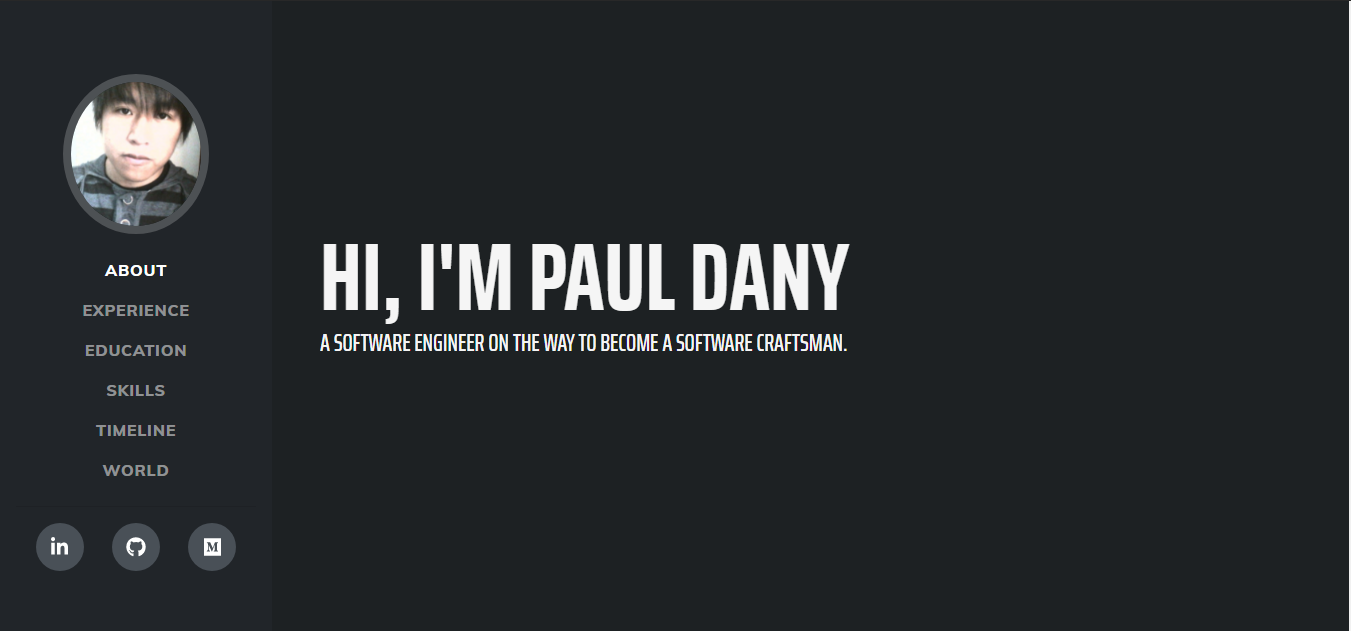
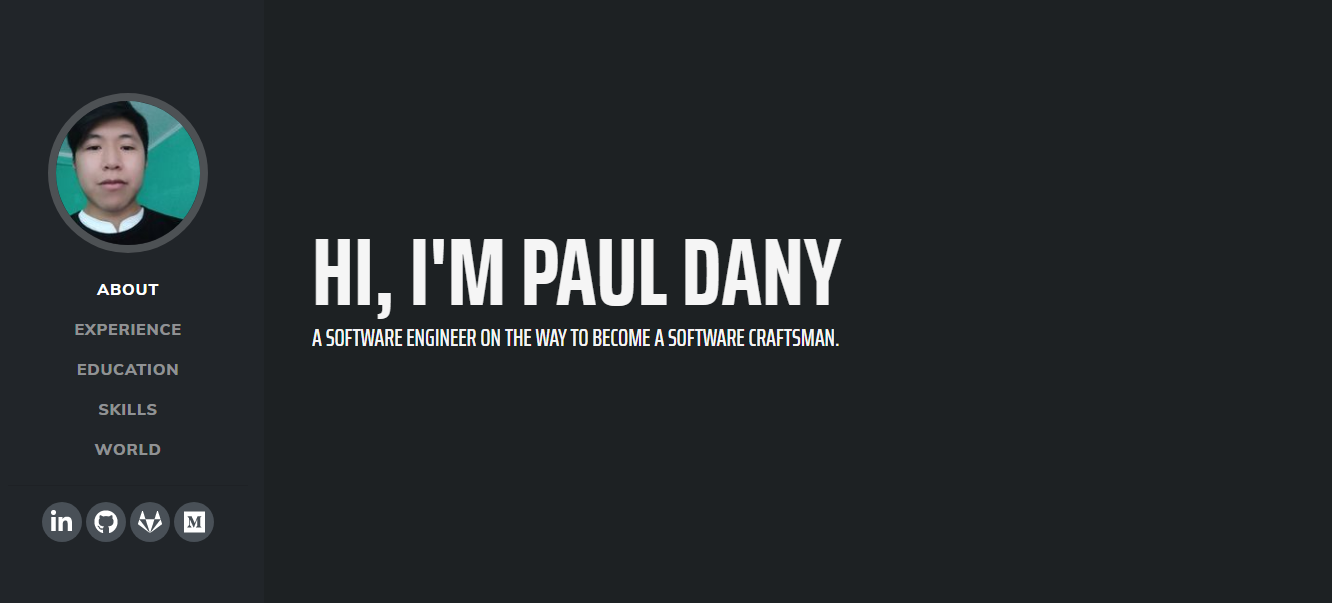
Update information

diff --git a/index.html b/index.html
@@ -50,7 +50,6 @@
                 <li class="nav-item"><a class="nav-link js-scroll-trigger" href="#experience">Experience</a></li>
                 <li class="nav-item"><a class="nav-link js-scroll-trigger" href="#education">Education</a></li>
                 <li class="nav-item"><a class="nav-link js-scroll-trigger" href="#skills">Skills</a></li>
-                <li class="nav-item"><a class="nav-link js-scroll-trigger" href="#timeline">Timeline</a></li>
                 <li class="nav-item"><a class="nav-link js-scroll-trigger" href="#world">World</a></li>
                 <li class="nav-item">
                     <hr>
@@ -92,10 +91,17 @@
                 <h2 class="mb-5">Experience</h2>
                 <div class="d-flex flex-column flex-md-row justify-content-between mb-5">
                     <div class="flex-grow-1">
+                        <h3 class="mb-0">Software Engineer</h3>
+                        <div class="subheading mb-3">Loggi - Brazil</div>
+                    </div>
+                    <div class="flex-shrink-0"><span class="text-primary">March 2022 - Present</span></div>
+                </div>
+                <div class="d-flex flex-column flex-md-row justify-content-between mb-5">
+                    <div class="flex-grow-1">
                         <h3 class="mb-0">Software Developer</h3>
                         <div class="subheading mb-3">Nelogica - Brazil</div>
                     </div>
-                    <div class="flex-shrink-0"><span class="text-primary">Aug 2020 - Present</span></div>
+                    <div class="flex-shrink-0"><span class="text-primary">Aug 2020 - December 2021</span></div>
                 </div>
                 <div class="d-flex flex-column flex-md-row justify-content-between mb-5">
                     <div class="flex-grow-1">
@@ -164,7 +170,7 @@
                         <div><img alt="JavaScript" title="JavaScript" height="50em" width="50em" src="https://raw.githubusercontent.com/devicons/devicon/master/icons/javascript/javascript-original.svg"></div>
                     </li>
                     <li class="list-inline-item">
-                        <div><img alt="Django" title="Django" height="50em" width="50em" src="https://raw.githubusercontent.com/devicons/devicon/master/icons/django/django-original.svg"></div>
+                        <div><img alt="Django" title="Django" height="50em" width="50em" src="https://raw.githubusercontent.com/devicons/devicon/master/icons/django/django-plain.svg"></div>
                     </li>
                     <li class="list-inline-item">
                         <div><img alt="ReactJs" title="ReactJs" height="50em" width="50em" src="https://raw.githubusercontent.com/devicons/devicon/master/icons/react/react-original.svg"></div>
@@ -187,169 +193,14 @@
                         <span class="fa-li"><i class="fas fa-check"></i></span> Clean Architecture, Software Architecture, Design Patterns, Site Reliability Engineering.
                     </li>
                     <li>
-                        <span class="fa-li"><i class="fas fa-check"></i></span> Data Structures, Algorithms.
+                        <span class="fa-li"><i class="fas fa-check"></i></span> Data Structures & Algorithms.
                     </li>
                     <li>
                         <span class="fa-li"><i class="fas fa-check"></i></span> Agile Development & Scrum
                     </li>
-                    <li>
-                        <span class="fa-li"><i class="fas fa-check"></i></span> CI/CD
-                    </li>
                 </ul>
             </div>
-        </section>
-        <hr class="m-0" />
-        <!-- Timeline-->
-        <section class="resume-section" id="timeline">
-            <div class="resume-section-content">
-                <h2 class="mb-5">My Adventure Path</h2>
-                <p> You can see a little about my professional accomplishments.</p>
-
-                <div class="timeline-area">
-                    <div class="container">
-                        <div class="timelines">
-                            <div class="all-timelines">
-                                <!--SINGLE TIMELINE-->
-                                <div class="single-timeline d-flex-2">
-                                    <div class="timeline-blank"></div>
-                                    <div class="timeline-text d-flex-2">
-                                        <div class="card text-white bg-dark">
-                                            <span class="badge bg-dark badge-left">AUGUST 2020</span>
-                                            <span class="badge bg-dark badge-right">WORK</span>
-                                            <span class="card-body">
-                                                    <p>I got my first job as a Software Developer at <a href="https://www.nelogica.com.br/empresa" target="_blank">Nelogica</a></p>
-                                                    <details>
-                                                        <summary>More Info</summary>
-                                                        <p>...</p>
-                                                      </details>
-                                                </span>
-                                        </div>
-                                        <div class="t-square"></div>
-                                    </div>
-                                </div>
-                                <!--SINGLE TIMELINE-->
-                                <div class="single-timeline d-flex-2">
-                                    <div class="timeline-blank"></div>
-                                    <div class="timeline-text d-flex-2">
-                                        <div class="card text-white bg-dark">
-                                            <span class="badge bg-dark badge-left">ACADEMIC</span>
-                                            <span class="badge bg-dark badge-right">JULY 2020</span>
-                                            <span class="card-body">
-                                                    <p>I finish my master degree in computer science at <a href="http://www.ufrgs.br/ufrgs/inicial" target="_blank" >UFRGS</a></p>
-                                                </span>
-                                        </div>
-                                        <div class="t-square"></div>
-                                    </div>
-                                </div>
-                                <!--SINGLE TIMELINE-->
-                                <div class="single-timeline d-flex-2">
-                                    <div class="timeline-blank"></div>
-                                    <div class="timeline-text d-flex-2">
-                                        <div class="card text-white bg-dark">
-                                            <span class="badge bg-dark badge-left">MARCH 2019</span>
-                                            <span class="badge bg-dark badge-right">ACADEMIC</span>
-                                            <div class="card-body">
-                                                <p>I got a Research Internship at <a href="https://www.hcpa.edu.br/" target="_blank" rel="noopener noreferrer">HCPA</a></p>
-                                            </div>
-                                        </div>
-                                        <div class="t-square"></div>
-                                    </div>
-                                </div>
-                                <!--SINGLE TIMELINE-->
-                                <div class="single-timeline d-flex-2">
-                                    <div class="timeline-blank"></div>
-                                    <div class="timeline-text d-flex-2">
-                                        <div class="card text-white bg-dark">
-                                            <span class="badge bg-dark badge-left">ACADEMIC</span>
-                                            <span class="badge bg-dark badge-right">MARCH 2017</span>
-                                            <div class="card-body">
-                                                <p>I begin a master's degree in computer science at <a href="https://www.inf.ufrgs.br/ppgc/" target="_blank">PPGC-INF</a></p>
-                                            </div>
-                                        </div>
-                                        <div class="t-square"></div>
-                                    </div>
-                                </div>
-
-                                <!--SINGLE TIMELINE-->
-                                <div class="single-timeline d-flex-2">
-                                    <div class="timeline-blank"></div>
-                                    <div class="timeline-text d-flex-2">
-                                        <div class="card text-white bg-dark">
-                                            <span class="badge bg-dark badge-left">FEBRUARY 2017</span>
-                                            <span class="badge bg-dark badge-right">ACADEMIC</span>
-                                            <div class="card-body">
-                                                <p>I got my bachelor degree in computer engineering at
-                                                    <a href="http://www.unsaac.edu.pe/" target="_blank">UNSAAC</a>
-                                                </p>
-                                            </div>
-                                        </div>
-                                        <div class="t-square"></div>
-                                    </div>
-                                </div>
-                                <!--SINGLE TIMELINE-->
-                                <div class="single-timeline d-flex-2">
-                                    <div class="timeline-blank"></div>
-                                    <div class="timeline-text d-flex-2">
-                                        <div class="card text-white bg-dark">
-                                            <span class="badge bg-dark badge-left">ACADEMIC</span>
-                                            <span class="badge bg-dark badge-right">SEPTEMBER 2016</span>
-                                            <div class="card-body">
-                                                <p>I received an honorable mention for the best innovation project in undergraduate thesis at <a href="http://www.unsaac.edu.pe/index.php/universidad/institucional/eventos/item/537-v-semana-de-la-investigacion-2016-unsaac"
-                                                        target="_blank">UNSAAC-VRIN</a></p>
-                                            </div>
-                                        </div>
-                                        <div class="t-square"></div>
-                                    </div>
-                                </div>
-                                <!--SINGLE TIMELINE-->
-                                <div class="single-timeline d-flex-2">
-                                    <div class="timeline-blank"></div>
-                                    <div class="timeline-text d-flex-2">
-                                        <div class="card text-white bg-dark">
-                                            <span class="badge bg-dark badge-left">NOVEMBER 2015</span>
-                                            <span class="badge bg-dark badge-right">ACADEMIC</span>
-                                            <div class="card-body">
-                                                <p>I received an honorable mention for participate in the <a href="https://icpc.global/" target="_blank">ACM ICPC</a> - The 2015 South America/South Regional</p>
-                                            </div>
-                                        </div>
-                                        <div class="t-square"></div>
-                                    </div>
-                                </div>
-                                <!--SINGLE TIMELINE-->
-                                <div class="single-timeline d-flex-2">
-                                    <div class="timeline-blank"></div>
-                                    <div class="timeline-text d-flex-2">
-                                        <div class="card text-white bg-dark">
-                                            <span class="badge bg-dark badge-left">ACADEMIC</span>
-                                            <span class="badge bg-dark badge-right">NOVEMBER 2014</span>
-                                            <div class="card-body">
-                                                <p>I received an honorable mention for participate in the <a href="https://icpc.global/" target="_blank">ACM ICPC</a> - The 2014 South America/South Regional</p>
-                                            </div>
-                                        </div>
-                                        <div class="t-square"></div>
-                                    </div>
-                                </div>
-                                <!--SINGLE TIMELINE-->
-                                <div class="single-timeline d-flex-2">
-                                    <div class="timeline-blank"></div>
-                                    <div class="timeline-text d-flex-2">
-                                        <div class="card text-white bg-dark">
-                                            <span class="badge bg-dark badge-left">APRIL 2011</span>
-                                            <span class="badge bg-dark badge-right">ACADEMIC</span>
-                                            <div class="card-body">
-                                                <p>I go to university to study computer engineering at <a href="http://www.unsaac.edu.pe/" target="_blank">UNSAAC</a></p>
-                                            </div>
-                                        </div>
-                                        <div class="t-square"></div>
-                                    </div>
-                                </div>
-                            </div>
-                        </div>
-                        <div>
-
-                        </div>
-                    </div>
-        </section>
+        </section>   
         <hr class="m-0" />
         <!-- World-->
         <section class="resume-section" id="world">
